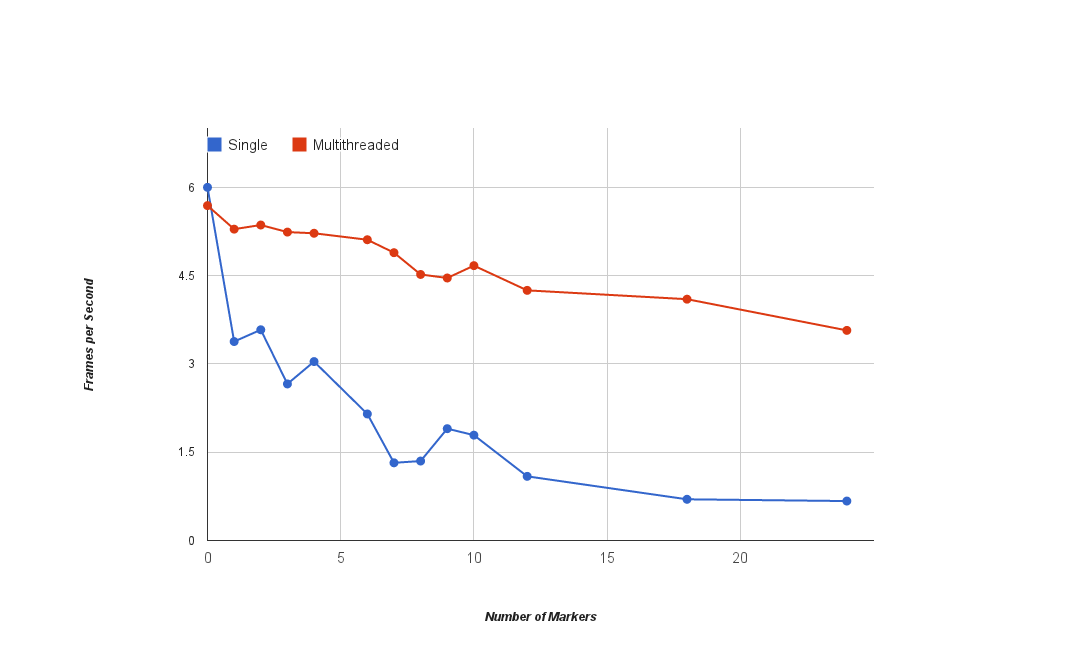
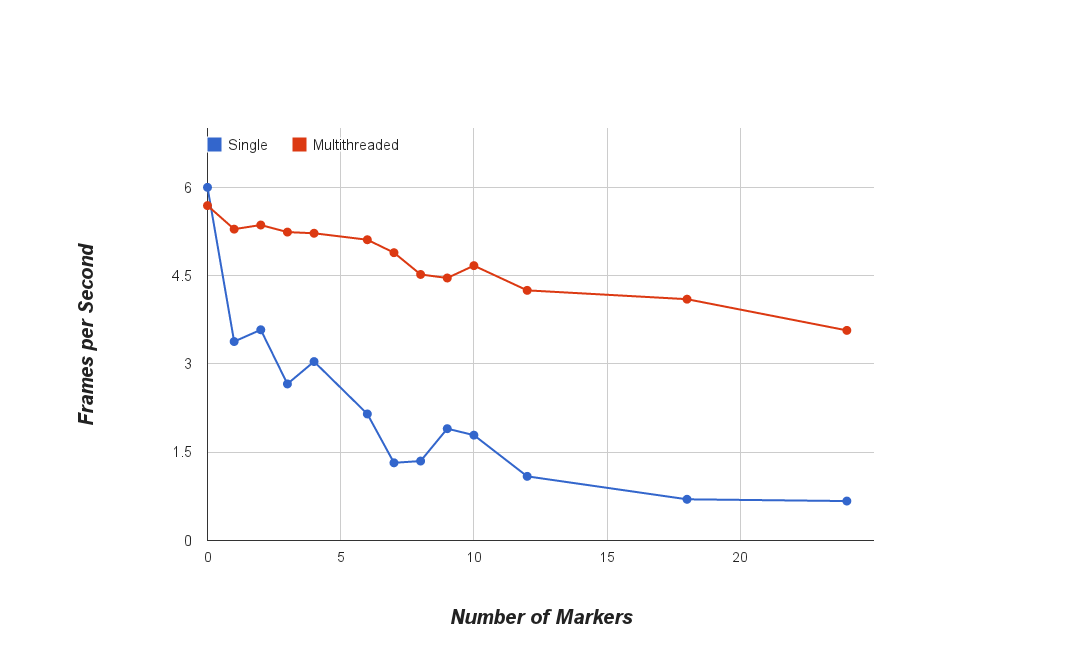
corrected results

diff --git a/prework/text/results.tex b/prework/text/results.tex
@@ -6,7 +6,9 @@ For that we implemented a basic application that implements the functionality of
 \section{Implementation}
 \label{implementation}
 
-TODO: TEXT HERE
+Here we will take a look at the process of implementing Imagine.
+First we will discuss difficulties and hardships endured during actual coding.
+Then we will take a closer look at the performance of the completed framework.
 
 \subsection{Encountered Difficulties}
 
@@ -19,7 +21,7 @@ The second difference is due to the fact that our framework's platform was to be
 These two differences seem to have been sufficient in decreasing the usage of the Java port of OpenCV enough that documentation and accessible tutorials and examples proved to be far in between.
 This forced development to rely all too often on examples written for other platforms and programming languages.
 Luckily however the framework syntax is consistent, although the used data types are not always transferable.
-Thus such translation work was possible if difficult.
+Thus such translation work was possible but difficult.
 
 % Lacking documentation
 But not only unofficial documentation is lacking: official documentation in the form of documentation for the application programming interface and official tutorials are, for all intents, almost non existent at the time of this paper.
@@ -33,6 +35,7 @@ Mats are used within OpenCV as a one-size-fits-all solution for any data ranging
 While it was still easy to recognize the RGBA format\footnote{RGBA stands for, respectively: red, green, blue, alpha. This depicts the order and type of channels for an image.} that the framework receives the camera image in, using the correct conversions and the correct mat subtypes in the principle work thread within Imagine proved to be very frustrating.
 First we encountered difficulties with the conversion of different image formats to other formats, an operation that costs a good bit of processing power and time.
 Thankfully, we were able to work around any conversions by parallel usage of multiple mats whose results are used on one another to retain a higher overall speed.
+
 Then another difficulty emerged while using the OpenCV function to calculate polygons for detected contours within an image.
 The method for these polygons returns these in a special mat subtype that is specialized for floating point numbers.
 However, the methods we then required to work with these polygons required the polygons in a normal mat, thus forcing us to convert from one type of mat to another.
@@ -41,7 +44,7 @@ Furthermore, there exist no methods for determining the type and allocation of c
 While not being able to check for these properties forced a clean usage of the data class within Imagine and thus probably increased speed somewhat, such methods are crucial for learning the correct usage of mat and certainty of stored data type.
 Writing and reading data with mats is also something that requires faith, as no checks for sanity can be performed on the data.
 For example, the method for reading a single coordinate returns a double array – always, even when using the mat for binary images (in which case a boolean would suffice), luminance images (possibly a short data type), or as an integer matrix (integers).
-The returned value then has to be cast to the (hopefully) correct data type – and if we made a mistake somewhere along the line and the mat doesn't contain the data we expect it to contain, we have little in the way of catching that mistake.
+The returned value then has to be cast to the (hopefully) correct data type – and if we made a mistake somewhere along the line and the mat doesn't contain the data we expect it to contain, we have no tools that would help us catch that mistake.
 We therefore kindly suggest that OpenCV for Android make use of the Java generics mechanism, as we believe that would start to reduce the confusion surrounding mats.
 
 % Problems debugging
@@ -53,11 +56,11 @@ OpenCV for Android does not cast the numeric error codes into equivalent Java ex
 Furthermore, the numerical error codes proved to be very generic in their implications.
 An example of this can be found with the error code we mostly fought with, which was 215.
 That numerical error can (and does!) mean anything from incorrect mat sizes to incorrect number of channels.
-A quick search also showed that that very same code is also used to signal unimplemented methods within OpenCV itself.
+A quick search also showed that the very same code is also used to signal unimplemented methods within OpenCV itself.
 
 % Paradigm problems
 While on the topic of paradigm differences: another difficulty we encountered with OpenCV for Android was the difference in coding styles.
-With this we mean for example that the result of a method was not returned, but instead written into an object passed on to the method\footnote{This stems from the way C++ usually does error handling by returning numerical error codes. The result is written into a referenced data class, freeing the return call for passing back numerically coded error or success messages.}.
+With this we mean for example that the result of a method was not returned, but instead called by reference\footnote{This stems from the way C++ usually does error handling by returning numerical error codes. The result is written into a referenced data class, freeing the return call for passing back numerically coded error or success messages.}.
 Due to the existence of exceptions, this is usually done differently when using Java.
 While generally more of a nuisance than a source of error, it would be helpful if the wrapper took care of the paradigm shift between Java and the C++ interface, thus freeing developers from having to work with two paradigms in parallel.
 
@@ -80,6 +83,7 @@ To give the following numbers a frame of reference, here some numbers concerning
 OpenCV captures the preview frame of the camera from Android for the base frame from which all processing originates.
 This means that the speed at which it does this is the first important reference for all further values.
 The speed of this operation proves to be the first limiting factor: due to how Android camera capture works, the preview only offers 15 frames per second.
+This was measured by simply showing the image as received through OpenCV, meaning that there was no overhead work being done.
 This has some strong implications for the Imagine framework: however much the work done can be optimized, it will never be capable of running faster than that.
 As humans only begin to see a smooth video upwards of approximately 20 frames per second – for perfectly smooth video however at least 60 frames per second – this places Imagine already outside the range of smooth output.
 
@@ -92,66 +96,69 @@ Newer versions of it should theoretically be able to increase the speed up to th
 To achieve even higher speeds, the speed at which Android fetches the camera preview must be increased, which could happen with newer devices and or newer version of Android.
 All of these possible speed increases however lie outside of the influence of the Imagine framework.
 
-\begin{figure}
+\begin{figure}[H]
 	\centering
-	\includegraphics[width=14cm]{img/performance_chart.png}
-	\caption[Imagine Performance Chart.]{This chart shows the performance in frames per second of Imagine, working both as a single pipeline and with multithreading. The effect of the number of markers in a camera image on the performance can clearly be seen.}
+	\includegraphics[width=16cm]{img/performance_chart.png}
+	\caption[Imagine Performance Chart.]{This chart shows the performance in frames per second of Imagine, working both as a single pipeline and with multithreading.}
 	\label{fig:performance_chart}
 \end{figure}
 
 For the speed of the Imagine framework, a general understanding of the algorithm that detects markers is required – as can be found in section \ref{detection_workflow}.
-Imagine idles at up to seven frames per second, meaning that this is the best case performance under ideal circumstances with no markers present.
+Imagine idles at up to \textbf{seven frames per second}, meaning that this is the best case performance under ideal circumstances with no markers present.
 When markers are present and detected, performance takes a hard dip.
 This and the difference multithreading makes can be seen in figure \ref{fig:performance_chart}.
 
 \subsubsection{Speed of Operations in Detector}
 
-The first performance sensitive operation is the conversion of the input image into a binary image.
+The first performance sensitive operation is the \textbf{conversion of the input image into a binary image}.
 The default method with a static threshold takes around 8 ms.
 It is significantly faster than adaptive thresholding with 88 ms.
 However it does not work reliably in low contrast images or in high dynamic ranges within an image.
 
-Next is the operation that finds all contours from the binary image.
+Next is the \textbf{operation that finds all contours from the binary image}.
 This operation is a vital part of the algorithm and can not easily be exchanged for some other operation.
 The cost of finding contours varies strongly on the binary image, but generally takes around 22 ms.
 
-Now Imagine has to process each contour separately, as each could be a marker.
+Now Imagine has to \textbf{process each contour separately}, as each could be a marker.
 This step is where most of the performance is siphoned from.
 In total these operations take around 100 ms, with a high variance for the number of markers.
 
-For each found contour, we calculate the polynomial approximation and use it to filter out any polygons that aren't convex and don't have 4 corners.
+For each found contour, we \textbf{calculate the polynomial approximation} and use it to filter out any polygons that aren't convex and don't have 4 corners.
 This step takes about 3 ms.
-Imagine then calculates the perspective transform and applies it to dewarp the texture of the marker candidate to allow sampling.
-Using the rgba input mat, OpenCV does this step in 12 ms.
+Imagine then calculates the perspective transform and applies it to \textbf{dewarp the texture} of the marker candidate to allow sampling.
+Using the RGBA input mat, OpenCV does this step in 12 ms.
 Originally however we require a grayscale image at this point; however it turns out that OpenCV has no hardware acceleration for dewarping grayscale mats on a Tegra CPU, such as the developer machine has.
 Using the grayscale image would impose a more hefty performance cost.
 
-If the contour is still a valid candidate at this point, Imagine tries to detect a marker from it and the dewarped texture.
+If the contour is still a valid candidate at this point, Imagine tries to \textbf{detect a marker} from it and the dewarped texture.
 This method takes anywhere from 5 ms to 30 ms, depending on whether the candidate is valid in terms of sampling its properties from the texture (meaning valid border, orientation, and identification marks).
 If a marker is rotated, then the correction of the identification pattern takes additional time, as rotating matrices is computationally expensive.
 
-Now only one step remains for a complete marker detection: calculating the perspective transformations.
+Now only one step remains for a complete marker detection: \textbf{calculating the perspective transformations}.
 This is done for all detected markers, but luckily is relatively fast compared to other operations.
 OpenCV takes 2 ms to calculate the data for every marker.
 
 \section{Features and Capabilities}
 
+In this section, we will take a look at the implemented features of Imagine.
+This includes basic features that are required for basic usability and capabilities for debugging various algorithm stages.
+
 \subsection{Debugging Capabilities}
 
 Imagine offers some easy options for selective debugging beyond the log output on Android.
 Specifically for debugging the visual pipeline we implemented some options so that pinpointing an error is comparatively easy.
-Setting debugging up is done via flags and should only be done before calling the onCreate function.
+Setting debugging up is done via flags and should only be done before calling the onCreate method.
 
-The first option we offer is to activate a more verbose logging mode, where Imagine logs quite a bit more information concerning possible errors – for example, the status of the hamming decoding upon marker detection.
-On par with that one can also activate frame per frame time logging, where Imagine will log the time each detection and rendering step takes.
+The first option we offer is to \textit{activate a more verbose logging mode}, where Imagine logs quite a bit more information concerning possible errors – for example, the status of the hamming decoding upon marker detection.
+On par with that one can also \textit{activate frame per frame time logging}, where Imagine will log the time each detection and rendering step takes.
 
 Going into the visual debugging it is important to note that marker detection is partially suspended.
 In any case Imagine deactivates multithreading to enable the output to be shown – as seen in section \ref{performance}, this decreases performance quite a bit.
 Once in visual debugging mode, three main aspects can be shown.
-The first option that can be activated shows the binary picture.
+The first option that can be activated \textit{shows the binary picture}.
 This can be used to check whether the chosen binarization method is working correctly.
 
-Another output that can be chosen is to let Imagine draw the detected contours.
+Another output that can be chosen is to let Imagine \textit{draw the detected contours}.
 This option can be used to detect errors within the contour detection that arise from the method used to binarize the image.
 
 \begin{figure}
@@ -183,7 +190,7 @@ Managing so-called trackables is possible, including the on-the-fly adding, remo
 Reading the pure 3D transformation data is also possible via a listener, bypassing the graphical part of Imagine.
 Manual configuration is somewhat possible, as many values can be changed to accomondate special use cases.
 It is however easily possible to configure debugging views to display relevant information and to enable extensive debugging output.
-multithreading is also implemented and beneficial, as seen in section \ref{performance}.
+Multithreading is also implemented and beneficial, as seen in section \ref{performance}.
 If required or when debugging views are to be used, a single thread pipeline can also be used.
 
 Therefore we conclude that our framework covers the basics in functionality, although a multitude of improvements can be made.
@@ -196,18 +203,18 @@ It consists of two activities: one for setting parameters and control values and
 
 Figure \ref{fig:debugging_view} is a screenshot of the application running the framework activity with debugging values activated.
 
-TAMINO TODO: MORE!
+TAMINO TODO: TODO AND MORE!
 
 \section{Comparison to similar Apps}
 
 In this section, we will compare Imagine to two other marker-based augmented reality frameworks for Android.
-Both are opensource projects and can be used freely in personal projects.
+Both are open source projects and can be used freely in personal projects.
 Table \ref{comp} lists the main differences.
 
-\begin{table}
+\begin{table}[H]
 	\centering
 	\begin{tabulary}{\textwidth}{J | J | J | J}
-	Framework & FPS & Number of markers & Maximum parallel markers \\
+	\textbf{Framework} & \textbf{FPS} & \textbf{Number of markers} & \textbf{Maximum parallel markers} \\
 	\hline
 	Imagine & ~5 & 256 & 256 \\
 	\hline
@@ -221,9 +228,16 @@ Table \ref{comp} lists the main differences.
 
 \subsection{Aruco}
 
-Aruco\cite{aruco} is a minimal library for augmented reality applications based on OpenCV.
+Aruco \cite{aruco} is a minimal library for Augmented Reality applications based on OpenCV.
 Primarily, it is intended for desktop C++ applications, although an Android port and web-based Javascript port exist.
-For the purpose of comparing it to our own framework, we will base the comparison on the Javascript port\cite{jsaruco} running on the same developer machine.
+For the purpose of comparing it to our own framework, we will base the comparison on the Javascript port \cite{jsaruco} running on the same developer machine.
+
+\begin{figure}[H]
+	\centering
+	\includegraphics[width=8cm]{img/aruco.png}
+	\caption[Aruco]{Screenshot of a basic Aruco application.}
+	\label{fig:aruco}
+\end{figure}
 
 The main features of Aruco are simple usage, 1024 markers that can be identified, and the support of so-called AR boards\footnote{Markers composed of several markers for higher reliability.}.
 The marker detection algorithm used by Aruco is the basis for our own work and thus works similarly.
@@ -234,13 +248,20 @@ The Javascript port runs at around four frames per second in a mobile web browse
 This is a low difference compared to Imagine, although our framework runs natively.
 We believe this due to the fact that while Aruco is based on OpenCV, the Javascript port can not use the library, and thus re-implements the required features.
 That removes any overhead caused by unused features and allows a completely native environment for data objects, without any significant conversions having to be done, which were one bottleneck in Imagine.
-Non the less Imagine is a small step faster.
+Nonetheless Imagine is a small step faster.
 
 \subsection{DroidAR}
 
-DroidAR\cite{droidar} is another framework for Android that allows, among other augmented reality features, marker-based tracking.
+DroidAR\cite{droidar} is another framework for Android that allows, among other Augmented Reality features, marker-based tracking.
 Due to difficulties using the framework on the developer's machine, no performance comparison could be made.
 DroidAR could not be tested solely without any other features without writing an application for that, which is beyond the scope of this comparison.
+
+\begin{figure}[H]
+	\centering
+	\includegraphics[width=10cm]{img/droidar.png}
+	\caption[DroidAR]{Screenshot of a basic DroidAR application.}
+	\label{fig:aruco}
+\end{figure}
 
 Feature wise a few things are different compared to Imagine, although some interesting parallels also exist.
 Most notably, DroidAR uses threads for the detection of markers and also utilizes OpenCV for Android.
